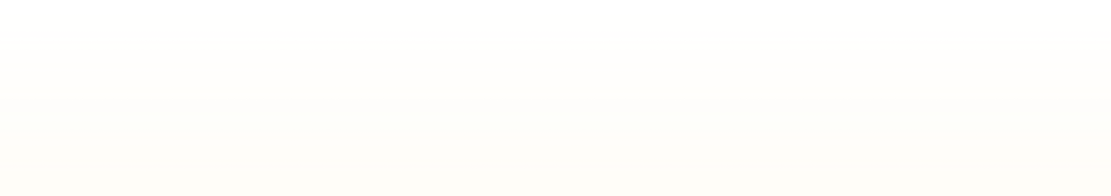
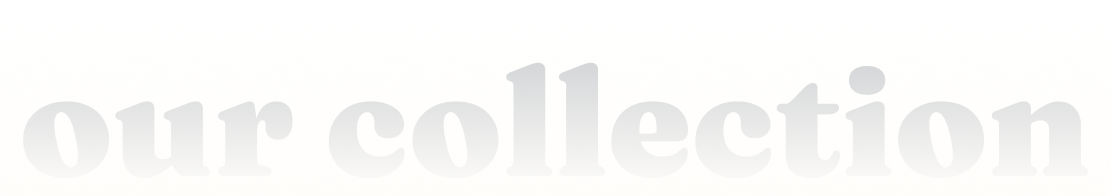
services section complacted

Changed region(s): [[0.306, 0.3061, 0.9793, 0.6122], [0.0306, 0.5204, 0.2754, 0.6122], [0.7651, 0.3367, 0.7957, 0.4898]]

diff --git a/css/Main.css b/css/Main.css
@@ -151,12 +151,11 @@ header {
   opacity: 0.5;
 }
 /*  Part Hero  */
-.hero-container{
+.hero-container {
   padding: 100px 50px;
- background: url('../images/hero_img.jpg');
- background-repeat: no-repeat;
- background-size: 1280px 600px;
-
+  background: url("../images/hero_img.jpg");
+  background-repeat: no-repeat;
+  background-size: 1280px 600px;
 }
 .hero-left {
   width: 540px;
@@ -193,6 +192,65 @@ header {
   line-height: 25px;
   text-align: center;
   color: #fefcf7;
-  background-color: #66D2CF;
+  background-color: #66d2cf;
   cursor: pointer;
 }
+/* services ↓ */
+.container-services {
+  width: 1275px;
+  padding-top: 120px;
+  padding-bottom: 120px;
+  position: relative;
+  display: flex;
+  align-items: center;
+  justify-content: space-evenly;
+  background-image: url("../images/services_bg-img.png");
+  background-repeat: no-repeat;
+  background-size: 1111px 196px;
+  background-position-x: 50%;
+}
+.services_box {
+  width: 255px;
+  text-align: center;
+  display: flex;
+  flex-direction: column;
+}
+.gran::before{
+  content: url(../images/kopi1.png);
+  margin-bottom: 40px;
+}
+.planalto::before{
+  content: url(../images/kopi2.png);
+  margin-bottom: 40px;
+}
+.piccollo::before{
+content: url(../images/kopi3.png);
+margin-bottom: 40px;
+}
+.danche::before{
+content: url(../images/kopi4.png);
+margin-bottom: 40px;
+}
+.services-heading {
+  width: 255px;
+  margin: 0;
+  margin-bottom: 24px;
+  padding: 0;
+  font-family: Fraunces 9pt;
+  font-style: normal;
+  font-weight: 900;
+  font-size: 24px;
+  line-height: 32px;
+  text-align: center;
+  color: #333d4b;
+}
+.services-desc {
+  margin: 0;
+  padding: 0;
+  font-family: Barlow;
+  font-size: 16px;
+  line-height: 26px;
+  text-align: center;
+  color: #333d4b;
+}
+/* Why choose us ? */

diff --git a/Index.html b/Index.html
@@ -37,6 +37,7 @@
     <!-- End header -->
     <!-- part hero -->
     <main>
+      <h1 class="visually_hidden">Coffee</h1>
       <section class="hero">
         <div class="container hero-container">
           <div class="hero-left">
@@ -47,6 +48,26 @@
               directly to your door, at your schedule.
             </p>
             <button class="button">Create your plan</button>
+          </div>
+        </div>
+      </section>
+      <section>
+        <div class="container container-services">
+          <div class="services_box gran">
+          <h3 class="servoces-heading">Gran Expresso</h3>
+          <p class="services-desc"> Light and flavorful blend with cocoa and black pepper for an intense experience </p>
+          </div>
+          <div class="services_box planalto">
+          <h3 class="servoces-heading">Planato</h3>
+          <p class="services-desc"> Brazilian dark roast with rich and velvety body, and hints of fruits and nuts </p>
+         </div>
+          <div class="services_box piccollo">
+            <h3 class="servoces-heading">Piccollo</h3>
+            <p class="services-desc"> Mild and smooth blend featuring notes of toasted almond and dried cherry </p>
+          </div>
+          <div class="services_box danche">
+            <h3 class="servoces-heading">Danche</h3>
+            <p class="services-desc"> Ethiopian hand-harvested blend densely packed with vibrant fruit notes </p>
           </div>
         </div>
       </section>
